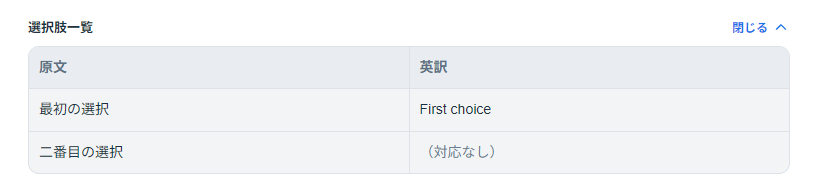
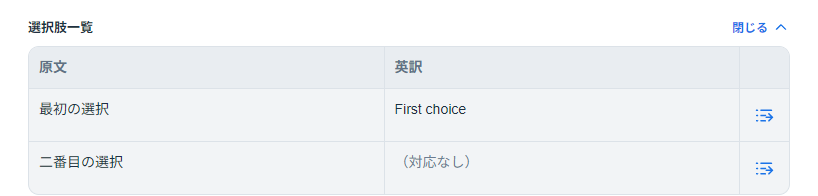
feat: navigate to related translation items with back history

diff --git a/tests/browser/choices-context.spec.ts b/tests/browser/choices-context.spec.ts
@@ -21,20 +21,34 @@ for(const common of [false,true]) test(`${common?'common arguments':'database fi
   const title=common?'数値引数名 1':'項目名 0',choiceTitle=common?'選択肢 1-1':'選択肢名 0-1';
   await load(page,path,ja,en);await openFile(page,path);
   const pick=async(title:string)=>{await page.locator('.entry-open').click();await page.locator('.pick-row').filter({has:page.locator('.pick-title',{hasText:new RegExp(`^${title}$`)})}).click();};
-  await pick(title);const section=page.locator('.choices-context'),toggle=section.getByRole('button'),rows=page.locator('.choice-row');
-  await expect(toggle).toHaveAttribute('aria-expanded','true');await expect(rows).toHaveCount(2);await expect(section.locator('thead th')).toHaveText(['原文','英訳']);await expect(rows.locator('th')).toHaveCount(0);await expect(section.locator('.choices-table')).toHaveCSS('font-size','14px');
+  await pick(title);const section=page.locator('.choices-context'),toggle=section.locator('.context-title'),rows=page.locator('.choice-row');
+  await expect(toggle).toHaveAttribute('aria-expanded','true');await expect(rows).toHaveCount(2);await expect(section.locator('thead th')).toHaveText(['原文','英訳','']);await expect(rows.locator('th')).toHaveCount(0);await expect(section.locator('.choices-table')).toHaveCSS('font-size','14px');
   await expect(rows.first().locator('.choice-source')).toHaveText('最初の選択');await expect(rows.first().locator('.choice-translation')).toHaveText('First choice');
   await expect(rows.nth(1).locator('.choice-source')).toHaveText('二番目の選択');await expect(rows.nth(1).locator('.choice-translation')).toContainText('対応なし');
   await expect(section).not.toContainText('隠すデータ値');await expect(section).not.toContainText('使用しない残存値');await expect(section).not.toContainText('Inactive English choice');
   await expect(rows.first().locator('.choice-source')).toHaveCSS('border-bottom-width','1px');await expect(rows.first().locator('.choice-source')).toHaveCSS('border-right-width','1px');
   const viewport=page.viewportSize()!;await page.setViewportSize({width:320,height:844});expect(await section.evaluate(el=>el.getBoundingClientRect().right<=innerWidth)).toBe(true);await page.setViewportSize(viewport);
   await captureUi(page,info,common?'argument-choices-context':'database-choices-context','.choices-context');
+  const jump=rows.first().getByRole('button',{name:'翻訳項目を開く',exact:true});
+  await expect(jump).toBeEnabled();
+  const cell=await rows.first().locator('.choice-translation').boundingBox(),jumpBox=await jump.boundingBox();expect(jumpBox!.x).toBeGreaterThan(cell!.x+cell!.width-1);
+  await jump.click();await expect(page.locator('.entry-title')).toHaveText(choiceTitle);
+  const parentJump=page.locator('.database-context').getByRole('button',{name:'翻訳項目を開く',exact:true});
+  const englishBox=await page.locator('.database-translation').boundingBox(),parentBox=await parentJump.boundingBox();expect(parentBox!.y).toBeGreaterThanOrEqual(englishBox!.y+englishBox!.height+9);
+  await parentJump.click();await expect(page.locator('.entry-title')).toHaveText(title);
+  await page.goBack();await expect(page.locator('.entry-title')).toHaveText(choiceTitle);
+  await page.goBack();await expect(page.locator('.entry-title')).toHaveText(title);
   await toggle.click();await expect(rows).toHaveCount(0);
-  await pick(choiceTitle);const related=page.locator('.database-context'),relatedToggle=related.getByRole('button');await expect(relatedToggle).toHaveAttribute('aria-expanded','true');await expect(page.locator('.database-original')).toHaveText('分類名');await expect(page.locator('.database-translation')).toHaveText('Category');
+  await pick(choiceTitle);const related=page.locator('.database-context'),relatedToggle=related.locator('.context-title');await expect(relatedToggle).toHaveAttribute('aria-expanded','true');await expect(page.locator('.database-original')).toHaveText('分類名');await expect(page.locator('.database-translation')).toHaveText('Category');
   await relatedToggle.click();await pick(title);await expect(toggle).toHaveAttribute('aria-expanded','false');
   await page.reload();await expect(page.locator('.busy')).toHaveCount(0);await openFile(page,path);await pick(title);await expect(toggle).toHaveAttribute('aria-expanded','false');await toggle.click();await expect(rows).toHaveCount(2);
   await pick(choiceTitle);await expect(relatedToggle).toHaveAttribute('aria-expanded','false');await relatedToggle.click();await expect(page.locator('.database-translation')).toHaveText('Category');
   await pick(common?'数値引数名 2':'項目名 1');await expect(section).toHaveCount(0);await expect(related).toHaveCount(0);
+  await pick(title);await page.getByRole('button',{name:'承認',exact:true}).click();await pick(choiceTitle);
+  await page.locator('.entry-open').click();await page.getByRole('button',{name:'未確認',exact:true}).click();await page.locator('.pick-row').filter({has:page.locator('.pick-title',{hasText:new RegExp(`^${choiceTitle}$`)})}).click();
+  await parentJump.click();await expect(page.locator('.entry-title')).toHaveText(title);
+  await page.goBack();await expect(page.locator('.entry-title')).toHaveText(choiceTitle);
+  await page.locator('.entry-open').click();await expect(page.getByRole('button',{name:'未確認',exact:true})).toHaveAttribute('aria-pressed','true');await page.getByRole('button',{name:'閉じる',exact:true}).click();
   await page.getByRole('button',{name:'メニュー',exact:true}).click();await page.getByRole('button',{name:'英訳TXTを出力',exact:true}).click();const download=page.waitForEvent('download');await page.getByRole('button',{name:'英訳TXTを出力',exact:true}).click();
   const zip=unzipSync(readFileSync((await(await download).path())!));expect(Buffer.from(zip[`en-US/texts/${path}`]).toString('utf8')).toBe(en);
 });

diff --git a/tests/browser/review.spec.ts b/tests/browser/review.spec.ts
@@ -925,13 +925,15 @@ test('database field originals appear below English for choices and CSV values w
   for(const [name,text] of [['ja',ja],['en',en]]) await page.locator(`input[name=${name}]`).setInputFiles({name:name+'.zip',mimeType:'application/zip',buffer:Buffer.from(zipSync({[path]:Buffer.from(text)}))});
   await page.getByRole('button',{name:'読み込む',exact:true}).click();await expect(page.locator('.busy')).toHaveCount(0,{timeout:90000});if(await page.getByRole('dialog').count()) await closeReviewSheet(page);await openTreeFile(page,path);
   const pick=async(title:RegExp)=>{await page.locator('.entry-open').click();await page.locator('.pick-row').filter({has:page.locator('.pick-title',{hasText:title})}).click();};
-  await pick(/^選択肢名/);await expect(page.locator('.entry-title')).toHaveText('選択肢名 0-1');const section=page.locator('.database-context'),toggle=section.getByRole('button'),original=page.locator('.database-original');
+  await pick(/^選択肢名/);await expect(page.locator('.entry-title')).toHaveText('選択肢名 0-1');const section=page.locator('.database-context'),toggle=section.locator('.context-title'),original=page.locator('.database-original');
   await expect(original).toHaveText('日本語の説明');await expect(section.locator('.context-field-label')).toHaveCount(0);await expect(toggle).toHaveCSS('font-weight','700');await expect(page.locator('.database-translation')).toHaveText('Description');
   await expect(original).toHaveCSS('background-color','rgb(242, 244, 246)');await expect(page.locator('.source')).toHaveCSS('background-color','rgb(255, 255, 255)');
   const translationBox=await page.locator('.translation').boundingBox(),originalBox=await original.boundingBox();expect(originalBox!.y).toBeGreaterThan(translationBox!.y+translationBox!.height);expect(Math.abs(originalBox!.x-translationBox!.x)).toBeLessThan(1);
   await captureUi(page,info,'database-context','.database-context');
   await toggle.click();await expect(toggle).toHaveAttribute('aria-expanded','false');await expect(original).toHaveCount(0);
-  await pick(/^データ 0 \/ 項目 1$/);await expect(toggle).toHaveAttribute('aria-expanded','false');await toggle.click();await expect(original).toHaveText('ASCII original label');await expect(page.locator('.database-translation')).toHaveText('English field label');
+  await pick(/^データ 0 \/ 項目 0$/);await toggle.click();await section.getByRole('button',{name:'翻訳項目を開く',exact:true}).click();await expect(page.locator('.entry-title')).toHaveText('項目名 0');
+  await page.goBack();await expect(page.locator('.entry-title')).toHaveText('データ 0 / 項目 0');await toggle.click();
+  await pick(/^データ 0 \/ 項目 1$/);await expect(toggle).toHaveAttribute('aria-expanded','false');await toggle.click();await expect(original).toHaveText('ASCII original label');await expect(page.locator('.database-translation')).toHaveText('English field label');await expect(section.getByRole('button',{name:'翻訳項目を開く',exact:true})).toBeDisabled();
   await toggle.click();await page.reload();await openTreeFile(page,path);await pick(/^選択肢名/);await expect(toggle).toHaveAttribute('aria-expanded','false');await toggle.click();await expect(original).toHaveText('日本語の説明');
   await pick(/^データ名 0$/);await expect(section).toHaveCount(0);await pick(/^項目名 0$/);await expect(section).toHaveCount(0);
 });
@@ -944,7 +946,7 @@ test('common argument choices show their original argument names with the shared
   for(const [name,text] of [['ja',ja],['en',en]]) await page.locator(`input[name=${name}]`).setInputFiles({name:name+'.zip',mimeType:'application/zip',buffer:Buffer.from(zipSync({[path]:Buffer.from(text)}))});
   await page.getByRole('button',{name:'読み込む',exact:true}).click();await expect(page.locator('.busy')).toHaveCount(0,{timeout:90000});if(await page.getByRole('dialog').count()) await closeReviewSheet(page);await openTreeFile(page,path);
   const pick=async(title:string)=>{await page.locator('.entry-open').click();await page.locator('.pick-row').filter({has:page.locator('.pick-title',{hasText:new RegExp(`^${title}$`)})}).click();};
-  await pick('選択肢 1-1');const section=page.locator('.database-context'),original=page.locator('.database-original'),toggle=section.getByRole('button');
+  await pick('選択肢 1-1');const section=page.locator('.database-context'),original=page.locator('.database-original'),toggle=section.locator('.context-title');
   await expect(section).toHaveAttribute('aria-label','対応する引数');await expect(original).toHaveText('対象の種類');await expect(section.locator('.context-field-label')).toHaveCount(0);await expect(original).toHaveCSS('background-color','rgb(242, 244, 246)');await expect(page.locator('.database-translation')).toHaveText('Target kind');
   await captureUi(page,info,'argument-context','.database-context');await toggle.click();await expect(original).toHaveCount(0);
   await pick('選択肢 2-1');await expect(toggle).toHaveAttribute('aria-expanded','false');await toggle.click();await expect(original).toHaveText('ASCII argument name');await expect(page.locator('.database-translation')).toHaveText('Translated argument name');

diff --git a/tests/database-context.test.ts b/tests/database-context.test.ts
@@ -1,11 +1,11 @@
 import {test} from 'node:test';
 import assert from 'node:assert/strict';
 import {databaseFieldOriginal,commonArgumentOriginal,databaseContextView} from '../src/database-context';
-import {metadataHeader,metadataContextText} from '../src/metadata-text';
+import {metadataHeader,metadataContextText,metadataItem} from '../src/metadata-text';
 import type {ReviewFile,Item} from '../src/model';
 
 const item={id:'a',slotIds:['s']} as Item;
-const file=(key:string,kind='metadata')=>({type:'database',jaText:'TYPE_ID=0\r\nITEM_LOADTYPE_0=3\r\nITEMNAME0=日本語の説明\r\nITEMNAME1=ASCII source\r\nITEMNAME2=\r\n<<--CSV_START-->>\r\n"複数行\r\nITEMNAME3=セル内の文字列\r\n"\r\n',enText:'TYPE_ID=0\r\nITEM_LOADTYPE_0=3\r\nITEMNAME0=Description\r\nITEMNAME1=ASCII translation\r\nITEMNAME2=\r\n<<--CSV_START-->>\r\n"Multiple lines\r\nITEMNAME3=Not a header\r\n"\r\n',slots:[{id:'s',key,kind}]} as ReviewFile);
+const file=(key:string,kind='metadata')=>({type:'database',jaText:'TYPE_ID=0\r\nITEM_LOADTYPE_0=3\r\nITEMNAME0=日本語の説明\r\nITEMNAME1=ASCII source\r\nITEMNAME2=\r\n<<--CSV_START-->>\r\n"複数行\r\nITEMNAME3=セル内の文字列\r\n"\r\n',enText:'TYPE_ID=0\r\nITEM_LOADTYPE_0=3\r\nITEMNAME0=Description\r\nITEMNAME1=ASCII translation\r\nITEMNAME2=\r\n<<--CSV_START-->>\r\n"Multiple lines\r\nITEMNAME3=Not a header\r\n"\r\n',items:[] as Item[],slots:[{id:'s',key,kind}]} as ReviewFile);
 test('choices and CSV settings identify their zero-based field and use original header names',()=>{
   assert.deepEqual(databaseFieldOriginal(file('CHOICE_NAME_0_17'),item),{index:0,source:'日本語の説明',translation:'Description'});
   assert.deepEqual(databaseFieldOriginal(file('CSV_D10_ITEM1','database_csv'),item),{index:1,source:'ASCII source',translation:'ASCII translation'});
@@ -27,7 +27,7 @@ test('the collapsible field original is escaped and distinguishes missing and em
   assert.ok(html.includes('class="label">原文</div>'));assert.ok(html.includes('class="label">英訳</div>'));assert.ok(html.includes('database-translation'));
 });
 
-const common=(key:string)=>({type:'common',jaText:'COMMON_ID=0\r\nVALINPUT_NAME_0=呼び出すメニュー\r\nVALINPUT_NAME_1=\r\nVALINPUT_NAME_5=ASCII argument\r\nSTRINPUT_NAME_0=別の文字列引数\r\nWoditorEvCOMMAND_START\r\nVALINPUT_NAME_2=本文中の偽設定\r\n',enText:'COMMON_ID=0\r\nVALINPUT_NAME_0=Menu to open\r\nVALINPUT_NAME_1=\r\nVALINPUT_NAME_5=ASCII translation\r\nWoditorEvCOMMAND_START\r\nVALINPUT_NAME_2=Not a header\r\n',slots:[{id:'s',key,kind:'metadata'}]} as ReviewFile);
+const common=(key:string)=>({type:'common',jaText:'COMMON_ID=0\r\nVALINPUT_NAME_0=呼び出すメニュー\r\nVALINPUT_NAME_1=\r\nVALINPUT_NAME_5=ASCII argument\r\nSTRINPUT_NAME_0=別の文字列引数\r\nWoditorEvCOMMAND_START\r\nVALINPUT_NAME_2=本文中の偽設定\r\n',enText:'COMMON_ID=0\r\nVALINPUT_NAME_0=Menu to open\r\nVALINPUT_NAME_1=\r\nVALINPUT_NAME_5=ASCII translation\r\nWoditorEvCOMMAND_START\r\nVALINPUT_NAME_2=Not a header\r\n',items:[] as Item[],slots:[{id:'s',key,kind:'metadata'}]} as ReviewFile);
 
 test('common argument choices use the numeric argument group and original header, including ASCII names',()=>{
   assert.deepEqual(commonArgumentOriginal(common('CHOICE_STR_0_8'),item),{index:0,source:'呼び出すメニュー',translation:'Menu to open'});
@@ -61,6 +61,14 @@ test('metadata context uses confirmed slots before stale TXT while preserving ma
   assert.deepEqual(metadataContextText(data,'ITEMNAME0'),{source:'',translation:''});
   assert.deepEqual(metadataContextText(data,'ITEMNAME2'),{source:'',translation:''});
   assert.deepEqual(metadataContextText(data,'ITEMNAME3'),{source:null,translation:null});
+});
+
+test('context links resolve the item owning the exact metadata slot and leave header-only names unavailable',()=>{
+  const data=file('CHOICE_NAME_0_0');
+  data.slots.push({id:'field',kind:'metadata',key:'ITEMNAME0'} as ReviewFile['slots'][number]);
+  const target={id:'field-item',slotIds:['field']} as Item;data.items=[target];
+  assert.equal(metadataItem(data,'ITEMNAME0'),target);assert.equal(metadataItem(data,'ITEMNAME1'),undefined);
+  assert.ok(databaseContextView(data,item,true).includes('data-value="field-item"'));
 });
 
 test('metadata header extraction respects every supported command boundary in both event formats',()=>{

diff --git a/src/choices-context.ts b/src/choices-context.ts
@@ -1,5 +1,5 @@
 import type {ReviewFile,Item} from './model';
-import {metadataHeader,metadataContextText} from './metadata-text';
+import {metadataHeader,metadataContextText,metadataItem} from './metadata-text';
 import {databaseChoicesEnabled} from './database-choice-policy';
 import {escape,icon} from './ui';
 
@@ -35,7 +35,7 @@ function choiceRows(file:ReviewFile,item:Item) {
     if(!sourceActive && !translationActive) return [];
     const sourceKey=sources.get(index)??translations.get(index)!;
     const translationKey=translations.get(index)??sources.get(index)!;
-    return [{source:sourceActive?metadataContextText(file,sourceKey).source:null,
+    return [{target:metadataItem(file,sourceKey),source:sourceActive?metadataContextText(file,sourceKey).source:null,
       translation:translationActive?metadataContextText(file,translationKey).translation:null}];
   });
 }
@@ -43,5 +43,5 @@ function choiceRows(file:ReviewFile,item:Item) {
 export function choicesContextView(file:ReviewFile,item:Item,open:boolean):string {
   const choices=choiceRows(file,item);if(!choices.length) return '';
   const cell=(value:string|null)=>value===null?'<span class="choices-empty">（対応なし）</span>':value===''?'<span class="choices-empty">（未設定）</span>':escape(value);
-  return `<section class="choices-context" aria-label="選択肢一覧"><button class="context-title" data-action="choices-context" aria-expanded="${open}" aria-controls="choices-context-body">選択肢一覧<span class="chevron ${open?'open':''}">${open?'閉じる':'開く'}${icon('down')}</span></button>${open?`<div class="choices-context-body" id="choices-context-body"><table class="choices-table"><thead><tr><th scope="col">原文</th><th scope="col">英訳</th></tr></thead><tbody>${choices.map(choice=>`<tr class="choice-row"><td class="choice-source">${cell(choice.source)}</td><td class="choice-translation">${cell(choice.translation)}</td></tr>`).join('')}</tbody></table></div>`:''}</section>`;
+  return `<section class="choices-context" aria-label="選択肢一覧"><button class="context-title" data-action="choices-context" aria-expanded="${open}" aria-controls="choices-context-body">選択肢一覧<span class="chevron ${open?'open':''}">${open?'閉じる':'開く'}${icon('down')}</span></button>${open?`<div class="choices-context-body" id="choices-context-body"><table class="choices-table"><thead><tr><th scope="col">原文</th><th scope="col">英訳</th><th scope="col" class="choice-action" aria-label="移動"></th></tr></thead><tbody>${choices.map(choice=>`<tr class="choice-row"><td class="choice-source">${cell(choice.source)}</td><td class="choice-translation">${cell(choice.translation)}</td><td class="choice-action"><button class="icon" data-action="context-item" data-value="${escape(choice.target?.id??'')}" aria-label="翻訳項目を開く" data-tooltip="${choice.target?'翻訳項目を開く':'対応する翻訳項目がありません'}" ${choice.target?'':'disabled'}>${icon('item-jump')}</button></td></tr>`).join('')}</tbody></table></div>`:''}</section>`;
 }

diff --git a/src/database-context.ts b/src/database-context.ts
@@ -1,6 +1,6 @@
 import type {ReviewFile,Item} from './model';
 import {escape,icon} from './ui';
-import {metadataHeader,metadataContextText} from './metadata-text';
+import {metadataHeader,metadataContextText,metadataItem} from './metadata-text';
 import {databaseChoicesEnabled} from './database-choice-policy';
 
 type ContextField={index:number;source:string|null;translation:string|null};
@@ -29,9 +29,11 @@ export function commonArgumentOriginal(file:ReviewFile,item:Item):ContextField|n
 export function databaseContextView(file:ReviewFile,item:Item,open:boolean):string {
   const common=file.type==='common',field=common?commonArgumentOriginal(file,item):databaseFieldOriginal(file,item);if(!field) return '';
   const heading=common?'対応する引数':'対応する項目',subject=common?'引数名':'項目名';
+  const target=metadataItem(file,common?`VALINPUT_NAME_${field.index}`:`ITEMNAME${field.index}`);
+  const jump=`<button class="text-act context-item-jump" data-action="context-item" data-value="${escape(target?.id??'')}" ${target?'':'disabled'}>${icon('item-jump')}翻訳項目を開く</button>`;
   const language=(name:string,value:string|null,className:string)=>{
     const empty=value===null?`（${name==='原文'?'対応する': '英訳の'}${subject}がありません）`:`（${name==='原文'?'':'英訳の'}${subject}は未設定）`;
     return `<div class="context-language"><div class="label">${name}</div><div class="text-box ${className} ${value?'':'database-original-empty'}">${escape(value||empty)}</div></div>`;
   };
-  return `<section class="database-context" aria-label="${heading}"><button class="context-title" data-action="database-context" aria-expanded="${open}" aria-controls="database-field-original">${heading}<span class="chevron ${open?'open':''}">${open?'閉じる':'開く'}${icon('down')}</span></button>${open?`<div class="database-context-body" id="database-field-original"><div class="context-translations">${language('原文',field.source,'database-original')}${language('英訳',field.translation,'database-translation')}</div></div>`:''}</section>`;
+  return `<section class="database-context" aria-label="${heading}"><button class="context-title" data-action="database-context" aria-expanded="${open}" aria-controls="database-field-original">${heading}<span class="chevron ${open?'open':''}">${open?'閉じる':'開く'}${icon('down')}</span></button>${open?`<div class="database-context-body" id="database-field-original"><div class="context-translations">${language('原文',field.source,'database-original')}${language('英訳',field.translation,'database-translation')}</div>${jump}</div>`:''}</section>`;
 }

diff --git a/tests/choices-context.test.ts b/tests/choices-context.test.ts
@@ -6,7 +6,7 @@ import type {ReviewFile,Item,Slot} from '../src/model';
 
 const item={id:'item',slotIds:['field']} as Item;
 function fixture(type:ReviewFile['type']='database',key='ITEMNAME0',ja='',en=''):ReviewFile {
-  return {type,jaText:ja,enText:en,slots:[{id:'field',key,kind:'metadata',command:null}]} as ReviewFile;
+  return {type,jaText:ja,enText:en,items:[] as Item[],slots:[{id:'field',key,kind:'metadata',command:null}]} as ReviewFile;
 }
 const rows=(html:string)=>[...html.matchAll(/<tr class="choice-row">([\s\S]*?)<\/tr>/g)].map(match=>match[1]);
 
@@ -16,12 +16,12 @@ test('database mode lookup distinguishes folder and choice modes and defaults mi
   assert.equal(databaseChoiceMode('ITEM_LOADTYPE_0=3\n',7),0);
 });
 
-test('database field choice tables keep numeric order while showing only source and English columns',()=>{
+test('database field choice tables keep numeric order with bilingual text and a navigation column',()=>{
   const file=fixture('database','ITEMNAME3','TYPE_ID=0\nITEM_LOADTYPE_3=3\nCHOICE_NAME_3_10=十一番目\nCHOICE_NAME_3_1=二番目\nCHOICE_NAME_2_0=別の項目\n','TYPE_ID=0\nITEM_LOADTYPE_3=3\nCHOICE_NAME_3_2=English only\nCHOICE_NAME_3_1=Second\n');
   const html=choicesContextView(file,item,true),lines=rows(html);
   assert.equal(lines.length,3);assert.ok(lines[0].includes('二番目'));assert.ok(lines[1].includes('English only'));assert.ok(lines[2].includes('十一番目'));assert.ok(!html.includes('choice-index'));
   assert.ok(lines[0].includes('二番目'));assert.ok(lines[0].includes('Second'));assert.ok(lines[1].includes('（対応なし）'));assert.ok(lines[2].includes('十一番目'));assert.ok(!html.includes('別の項目'));
-  assert.ok(html.includes('<th scope="col">原文</th><th scope="col">英訳</th>'));assert.equal((html.match(/<th scope="col">/g)??[]).length,2);
+  assert.ok(html.includes('<th scope="col">原文</th><th scope="col">英訳</th>'));assert.equal((html.match(/<th scope="col"[ >]/g)??[]).length,3);
 });
 
 test('common numeric arguments use CHOICE_STR, preserve empty values and prefer confirmed translations',()=>{

diff --git a/src/styles.css b/src/styles.css
@@ -100,10 +100,13 @@ body{position:fixed;inset:0}
 .database-context-body{margin:0 16px 16px}
 .database-original,.database-translation{background:#f2f4f6}
 .context-translations{display:grid;gap:10px}
+.context-item-jump{margin-top:10px}
 .choices-context-body{margin:0 16px 16px;overflow:hidden;border:1px solid #dce2e8;border-radius:11px;background:#f2f4f6}
 .choices-table{width:100%;table-layout:fixed;border-collapse:collapse;font-size:14px;line-height:1.8;text-align:left}
 .choices-table th,.choices-table td{padding:8px 10px;border-bottom:1px solid #dce2e8;border-right:1px solid #dce2e8;vertical-align:top;white-space:pre-wrap;overflow-wrap:anywhere}
 .choices-table thead{background:#e9edf1;color:#607185}
+.choices-table .choice-action{width:50px;padding:4px 3px;vertical-align:middle;text-align:center}
+.choice-action .icon{color:var(--accent)}
 .choices-empty{color:var(--muted)}
 .choices-table th:last-child,.choices-table td:last-child{border-right:0}
 .choices-table tbody tr:last-child th,.choices-table tbody tr:last-child td{border-bottom:0}

diff --git a/src/main.ts b/src/main.ts
@@ -295,6 +295,11 @@ root.addEventListener('click', event => {
   else if (action === 'file') {path = value!; itemFilter = homeFilter; itemQuery=''; selectItem(targets()[0]?.id ?? '');}
   else if (action === 'filter') {if (scope === 'home') homeFilter = value as Filter; else {const retaining=itemFilter==='comment' && value==='comment' && !!currentItem();itemFilter = value as Filter; if (!retaining && !targets().some(i => i.id === currentId)) currentId = targets()[0]?.id ?? null;}}
   else if (action === 'pick') {selectItem(value!); closeSheet(); return;}
+  else if(action==='context-item') {
+    const target=currentFile()?.items.find(item=>item.id===value);if(!target) return;
+    preservePreviousScreen=true;if(!matches(target,itemFilter)) itemFilter='all';itemQuery='';selectItem(target.id);
+    render();root.querySelector('.review')?.scrollTo(0,0);return;
+  }
   else if (action === 'close') {closeSheet(); return;}
   else if (action === 'prev') {move(-1); return;}
   else if (action === 'next') {move(1); return;}

diff --git a/src/screen-history.ts b/src/screen-history.ts
@@ -25,7 +25,7 @@ export class ScreenHistory<T> {
   sync(screen:Screen<T>) {
     if(this.pending) {this.pending.screen=screen;return;}
     const current=this.entries[this.index];
-    if(same(current,screen)) {current.value=screen.value;return;}
+    if(same(current,screen) && !screen.preservePrevious) {current.value=screen.value;return;}
     let target=-1;
     // Closing a panel (or returning home) consumes its history entries. A new
     // file first closes any overlay, so Back never reopens a stale confirmation.

diff --git a/src/metadata-text.ts b/src/metadata-text.ts
@@ -11,3 +11,8 @@ export function metadataContextText(file:ReviewFile,key:string):{source:string|n
   const slot=file.slots.find(slot=>slot.kind==='metadata' && slot.key===key);
   return {source:slot?.sourceOverride??value(file.jaText),translation:slot?.translation??value(file.enText)};
 }
+
+export function metadataItem(file:ReviewFile,key:string) {
+  const slot=file.slots.find(slot=>slot.kind==='metadata' && slot.key===key);
+  return slot && file.items.find(item=>item.slotIds.includes(slot.id));
+}
